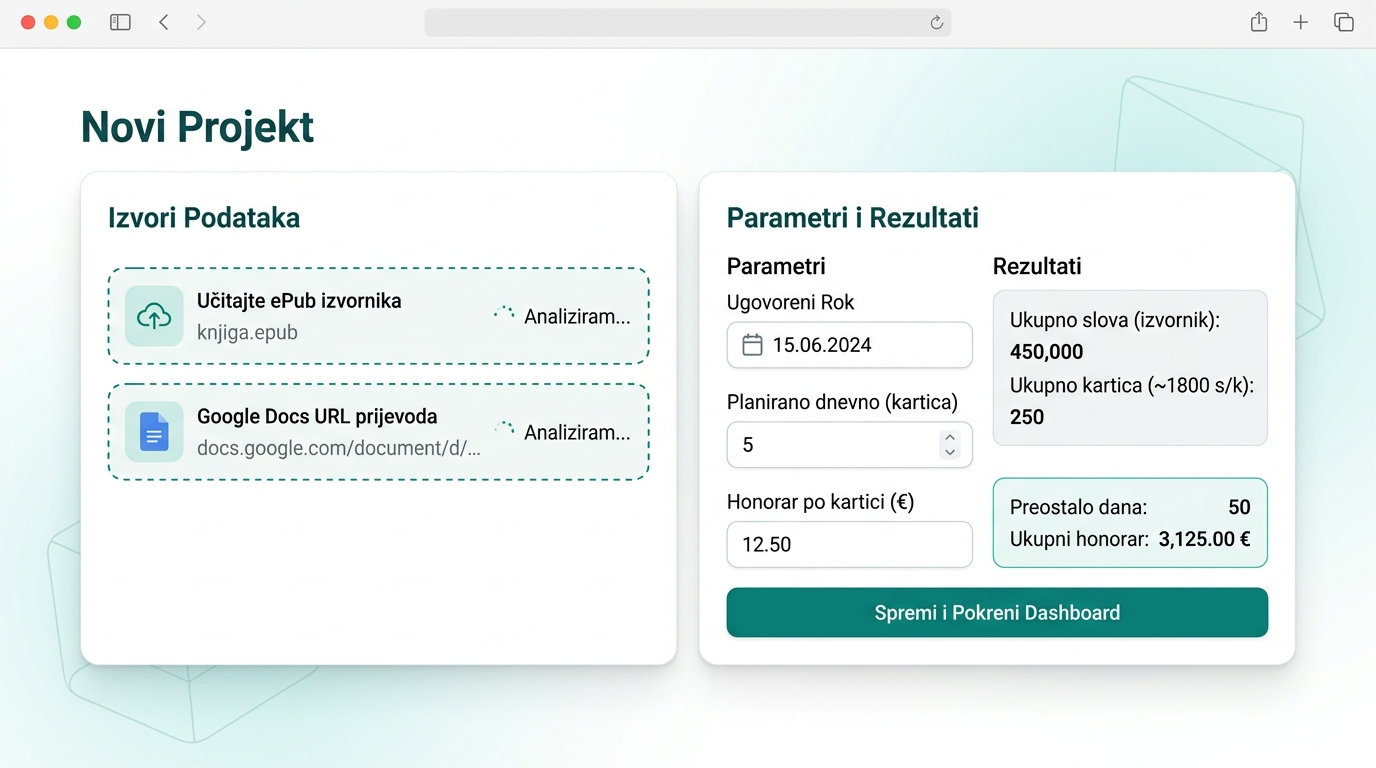
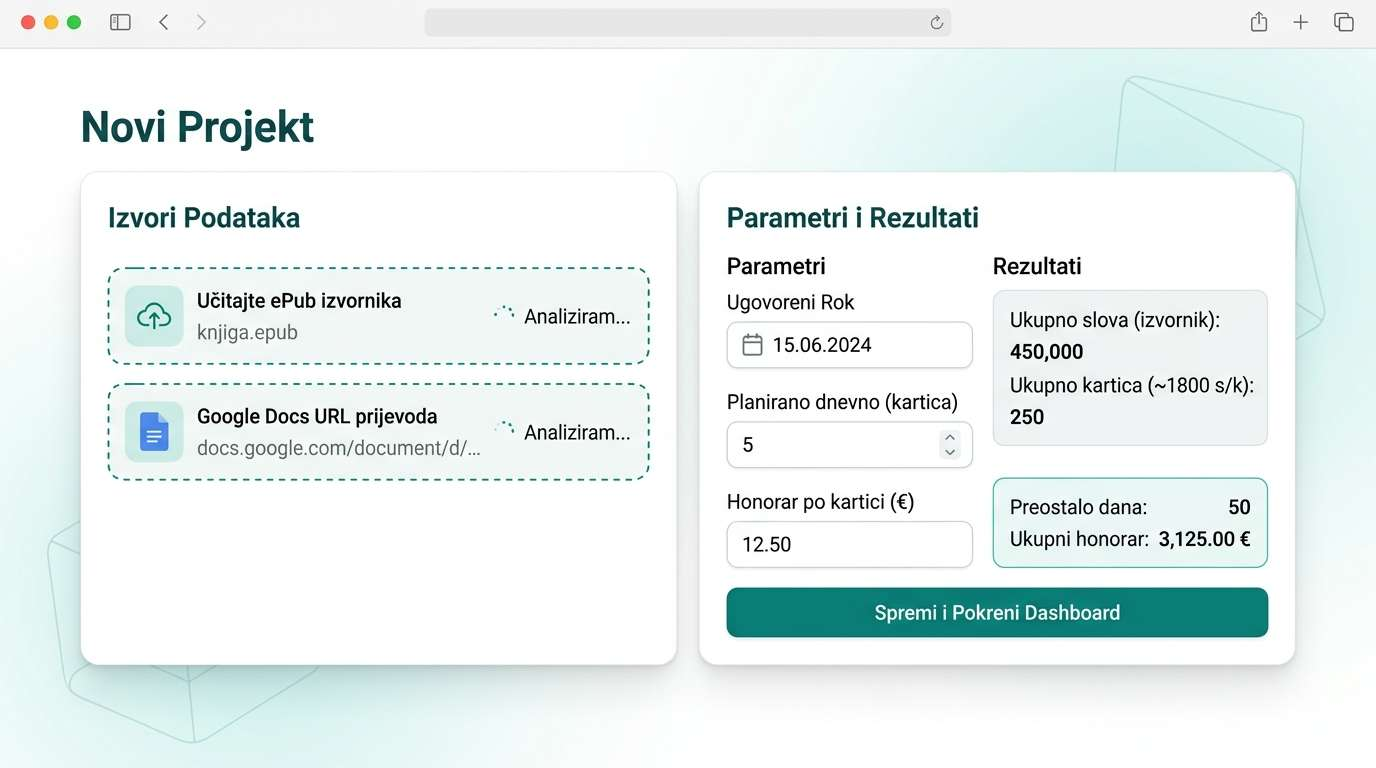
Soft release mojih1500 app

Changed region(s): [[0.1875, 0.1562, 0.2188, 0.1875]]

diff --git a/_includes/head.html b/_includes/head.html
@@ -68,16 +68,25 @@
 
 <!-- Navigation Bar -->
 <header class="main-header">
-  <div class="container main-nav">
-    <a href="{{ '/#' | relative_url }}" class="logo">Davor Banović</a>
-    <ul>
-      <li id="mobile-content" style="display: none;"><a href="{{ '/#' | relative_url }}">Home</a></li>
-      <li><a href="{{ '/#knjige' | relative_url }}">Knjige</a></li>
-      <li><a href="{{ '/#knjizevno-prevodenje' | relative_url }}">Prevođenje</a></li>
-      <li><a href="{{ '/blog/' | relative_url }}">Blog</a></li>
-
-       </ul>
-  </div>
+ <!-- Navigation Bar -->
+<header class="main-header">
+ <div class="container main-nav">
+  <a href="{{ '/#' | relative_url }}" class="logo">Davor Banović</a>
+  <ul>
+    <li id="mobile-content" style="display: none;"><a href="{{ '/#' | relative_url }}">Home</a></li>
+    <li><a href="{{ '/#knjige' | relative_url }}">Knjige</a></li>
+    
+    <!-- Prevođenje s podmenijem -->
+    <li class="has-dropdown">
+      <a href="{{ '/#knjizevno-prevodenje' | relative_url }}">Prevođenje</a>
+      <ul class="dropdown">
+        <li><a href="{{ '/#knjizevno-prevodenje' | relative_url }}">Usluge književnog prevođenja</a></li>
+        <li><a href="{{ '/mojih1500/' | relative_url }}">Aplikacija za prevoditelje</a></li>
+      </ul>
+    </li>
+     <li><a href="{{ '/blog/' | relative_url }}">Blog</a></li>
+  </ul>
+</div>
 <script>
   document.addEventListener("DOMContentLoaded", function() {
     // Simple regex to check for mobile user agents

diff --git a/index.html b/index.html
@@ -60,11 +60,12 @@ layout: default
   <div class="container">
     <div class="section-header">
       <h2 class="section-title">Književno prevođenje</h2>
+      <p class="intro-emphasis"> 
+     Tražite li pouzdanog prevoditelja za svoj sljedeći izdavački projekt ili naslov u pripremi, <a href="#contact" class="note-read-more">javite se za suradnju!</a></p>
+
       <p class="intro-text">
         Kao <b>književni prevoditelj</b>, u suradnji s hrvatskim nakladnicima, prevodim književna i publicistička djela s <b>engleskog na hrvatski jezik</b>. 
         Svaki tekst jedinstvena je interpretacija u kojoj težim što vjernije prenijeti semantičko značenje, stil i autentičnu atmosferu izvornika.</p>
-      <p class="intro-emphasis"> 
-        Tražite li pouzdanog prevoditelja za svoj sljedeći izdavački projekt ili naslov u pripremi, <a href="#contact" class="note-read-more">javite se za suradnju!</a></p>
       <p class="intro-text">U nastavku pogledajte neke od <b>istaknutih djela</b> koje sam preveo:</p>
       </div>
 

diff --git a/mojih1500/app/index.html b/mojih1500/app/index.html
@@ -250,7 +250,7 @@
   
   <!-- Priča 0: Naslov i obavijest -->
   <div style="margin-bottom: 24px;">
-    <h2 style="color: #008080; margin-bottom: 6px;">📊 Analitika Financija i Procesa</h2>
+    <h2 style="color: #008080; margin-bottom: 6px;">📊 Analitika projekata po mjesecima</h2>
     <p style="color: #666; font-size: 0.9em; margin: 0; background: #e6f2f2; padding: 10px 14px; border-radius: 6px; border-left: 4px solid #008080;">
       ℹ <strong>Napomena:</strong> Prikazana analitika je informativne prirode i služi za internu procjenu i planiranje radnog ritma i prihoda.
     </p>

diff --git a/mojih1500/index.html b/mojih1500/index.html
@@ -194,7 +194,7 @@ image: /mojih1500/mockup1.jpg
       </div>
     </div>
     <div class="hero-image">
-      <img src="./mockup4.jpeg" alt="Mojih 1500 PWA Prikaz" style="max-width: 380px; margin: 0 auto; display: block;">
+      <img src="./mockup5.jpeg" alt="Mojih 1500 PWA Prikaz" style="max-width: 380px; margin: 0 auto; display: block;">
     </div>
   </section>
 
